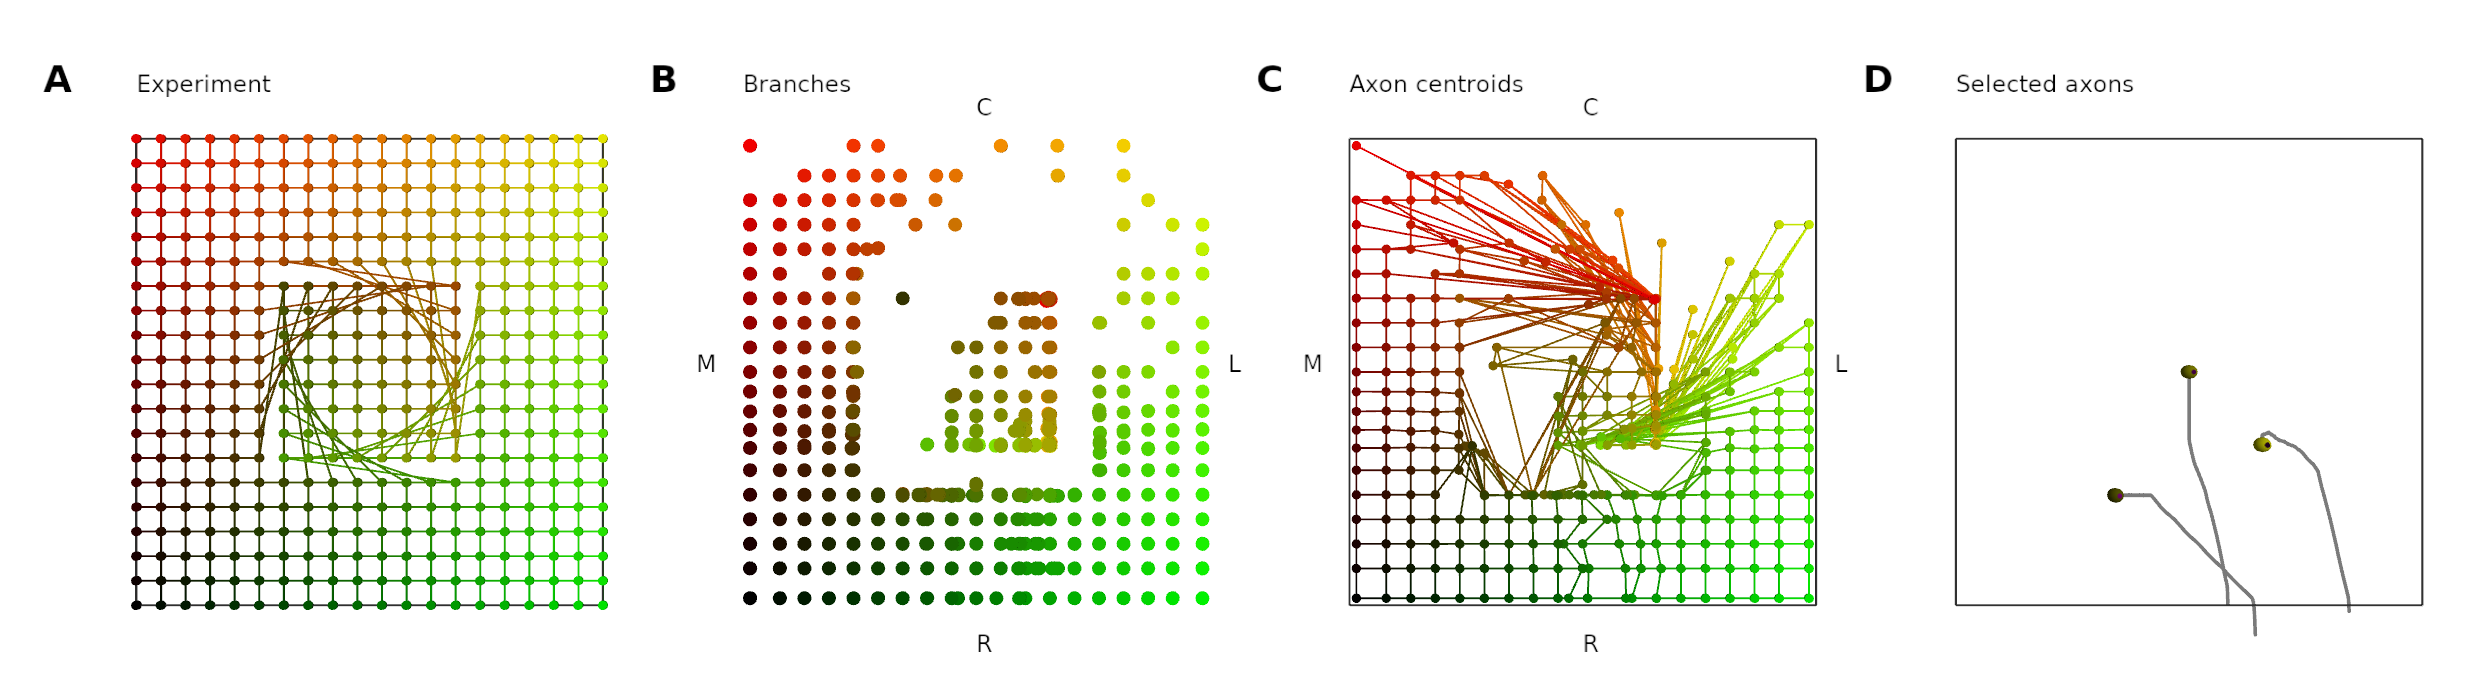
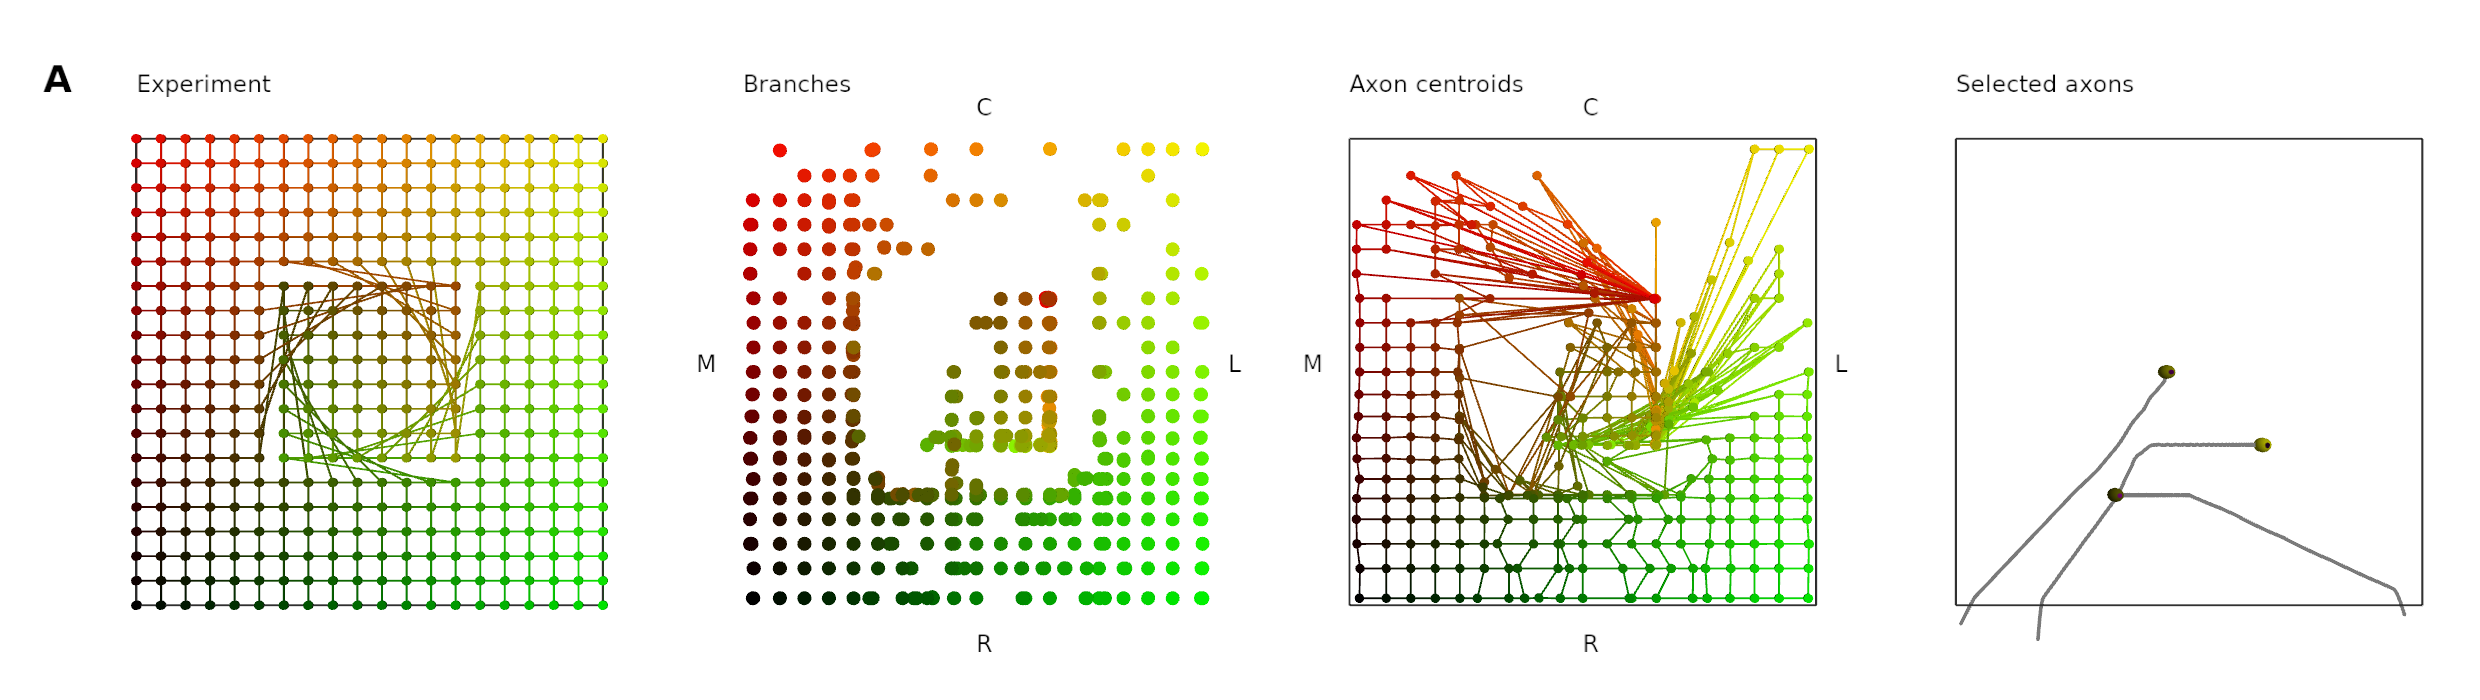
Changes to automate generation of the chemo manipulations figure

diff --git a/paper/paper.tex b/paper/paper.tex
@@ -736,7 +736,10 @@ ligand expression.
 \end{figure}
 
 The `chemoaffinity only' model begins to encounter problems when we introduce
-simulations of experimental manipulations.
+simulations of experimental manipulations. Fig\,\ref{f:chsurg} shows the
+results of 6 simulated surgical manipulations. In row A, a patch of tectal
+tissue has been cut out and rotated by a quarter turn. This is achieved in
+simulation by rotating a square region of the tectal region
 
 % The chemo manipulations figure is made up from 4 figures generated with
 % graph_layout::g
@@ -744,7 +747,9 @@ simulations of experimental manipulations.
 % ./build/sim/agent/agent1 configs/simpler/m_eE_G.json  configs/simpler/e_tecrot90_fig4row1.json
 % ./build/sim/agent/agent1 configs/simpler/m_eE_G.json  configs/simpler/e_tecrot180_fig4row2.json
 % ./build/sim/agent/agent1 configs/simpler/m_eE_G.json  configs/simpler/e_tecswap_fig4row3.json
-% ./build/sim/agent/agent1 configs/simpler/m_eE_G.json  configs/simpler/e_mismatch_fig4row4.json
+% ./build/sim/agent/agent1 configs/simpler/m_eE_G.json  configs/simpler/e_retablat_fig4row4.json
+% ./build/sim/agent/agent1 configs/simpler/m_eE_G.json  configs/simpler/e_tecablat_fig4row5.json
+% ./build/sim/agent/agent1 configs/simpler/m_eE_G.json  configs/simpler/e_mismatch_fig4row6.json
 %
 \begin{figure}
 \includegraphics[width=0.8\linewidth]{./images/fig_chemo_manipulations.png}

diff --git a/sim/agent/agent1.h b/sim/agent/agent1.h
@@ -1652,9 +1652,9 @@ struct Agent1
         if (!startletter.empty()) { sl = startletter[0]; }
         morph::VisualModel* jtvm = new morph::VisualModel (v->shaderprog, v->tshaderprog, ozero);
         jtvm->addLabel (std::string({sl}), g_A, morph::colour::black, morph::VisualFont::VeraBold, lfs, lpts);
-        jtvm->addLabel (std::string({sl+1}), g_B, morph::colour::black, morph::VisualFont::VeraBold, lfs, lpts);
-        jtvm->addLabel (std::string({sl+2}), g_C, morph::colour::black, morph::VisualFont::VeraBold, lfs, lpts);
-        jtvm->addLabel (std::string({sl+3}), g_D, morph::colour::black, morph::VisualFont::VeraBold, lfs, lpts);
+        //jtvm->addLabel (std::string({sl+1}), g_B, morph::colour::black, morph::VisualFont::VeraBold, lfs, lpts);
+        //jtvm->addLabel (std::string({sl+2}), g_C, morph::colour::black, morph::VisualFont::VeraBold, lfs, lpts);
+        //jtvm->addLabel (std::string({sl+3}), g_D, morph::colour::black, morph::VisualFont::VeraBold, lfs, lpts);
         this->v->addVisualModel (jtvm);
     }
 
